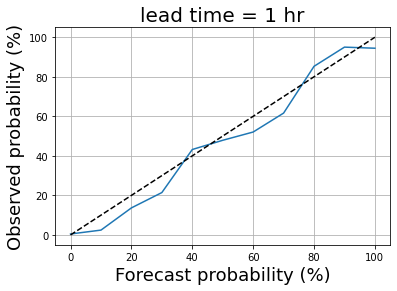
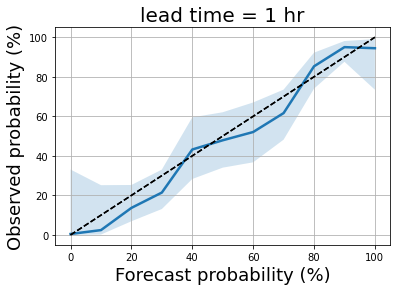
add confidence interval

Changed region(s): [[0.1814, 0.1237, 0.9673, 0.8351]]

diff --git a/README.md b/README.md
@@ -6,9 +6,13 @@
 * 資料時間：2019/08/30 ~ 2020/02/20
 * 縣市預報是以該單位縣市政府所在位置為基準（例如：預報臺北市降雨機率80%，是指臺北市政府這個位置有80%的機率降雨），因此觀測資料會以距離縣市政府最近的觀測站為準。
 * 準確的機率預報代表：在 n 個降雨機率為 p 的日子中，約有 n\*p 個日子有下雨。例如：假設臺北市降雨機率80%的日子共有 100 天，如果其中有 78 個日子是最終真的有下雨，那表示預報算準確；但若最後只有 50 個日子下雨，那表示預報失準，預報機率過高。
-* 主要分析每日早上 5 點發布的預報，預報的區段為當天 6 點至 18 點（lead time = 25 小時），以及隔日的 6 點至 18 點（lead time = 25 小時）。
+* 主要分析每日早上 5 點發布的預報，預報的區段為當天 6 點至 18 點（lead time = 1 小時），以及隔日的 6 點至 18 點（lead time = 25 小時）。
 
 ## 結果
-（黑色虛線為 y = x 的斜直線，藍色線是預報機率和實際降雨機率的線，藍色線越接近黑色虛線表示預報越準）
+黑色虛線為 y = x 的斜直線，藍色線是預報機率和實際降雨機率的線，藍色線越接近黑色虛線表示預報越準  
 ![](./pictures/total_1hr.png)  
 ![](./pictures/total_25hr.png)
+
+淺藍色的區域為 95% Wilson confidence interval (\[1], equation 4)
+
+\[1] Lawrence D. Brown. T. Tony Cai. Anirban DasGupta. "Interval Estimation for a Binomial Proportion." Statist. Sci. 16 (2) 101 - 133, May 2001. https://doi.org/10.1214/ss/1009213286
